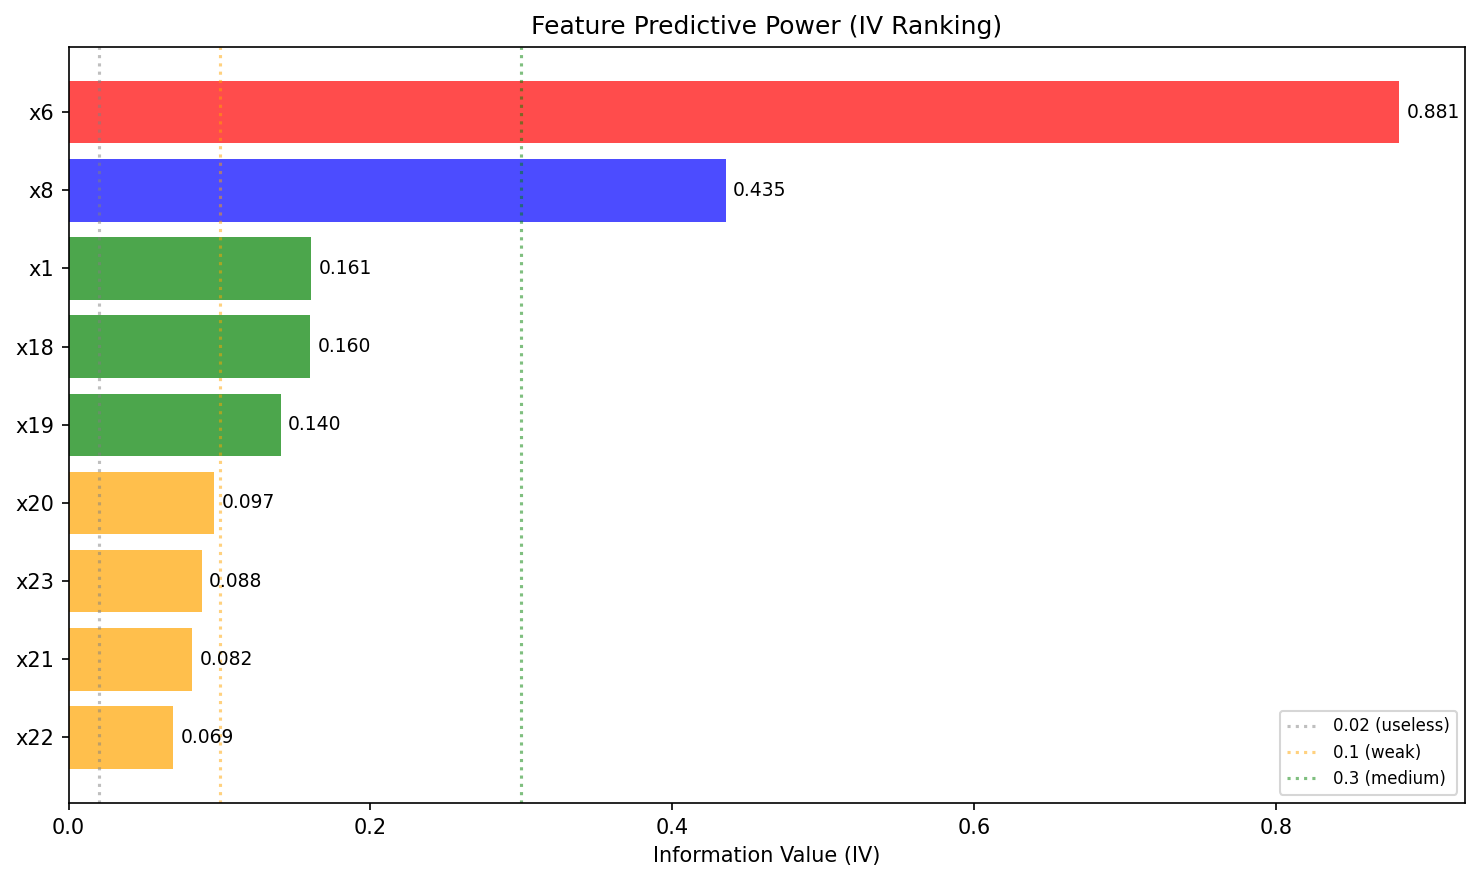
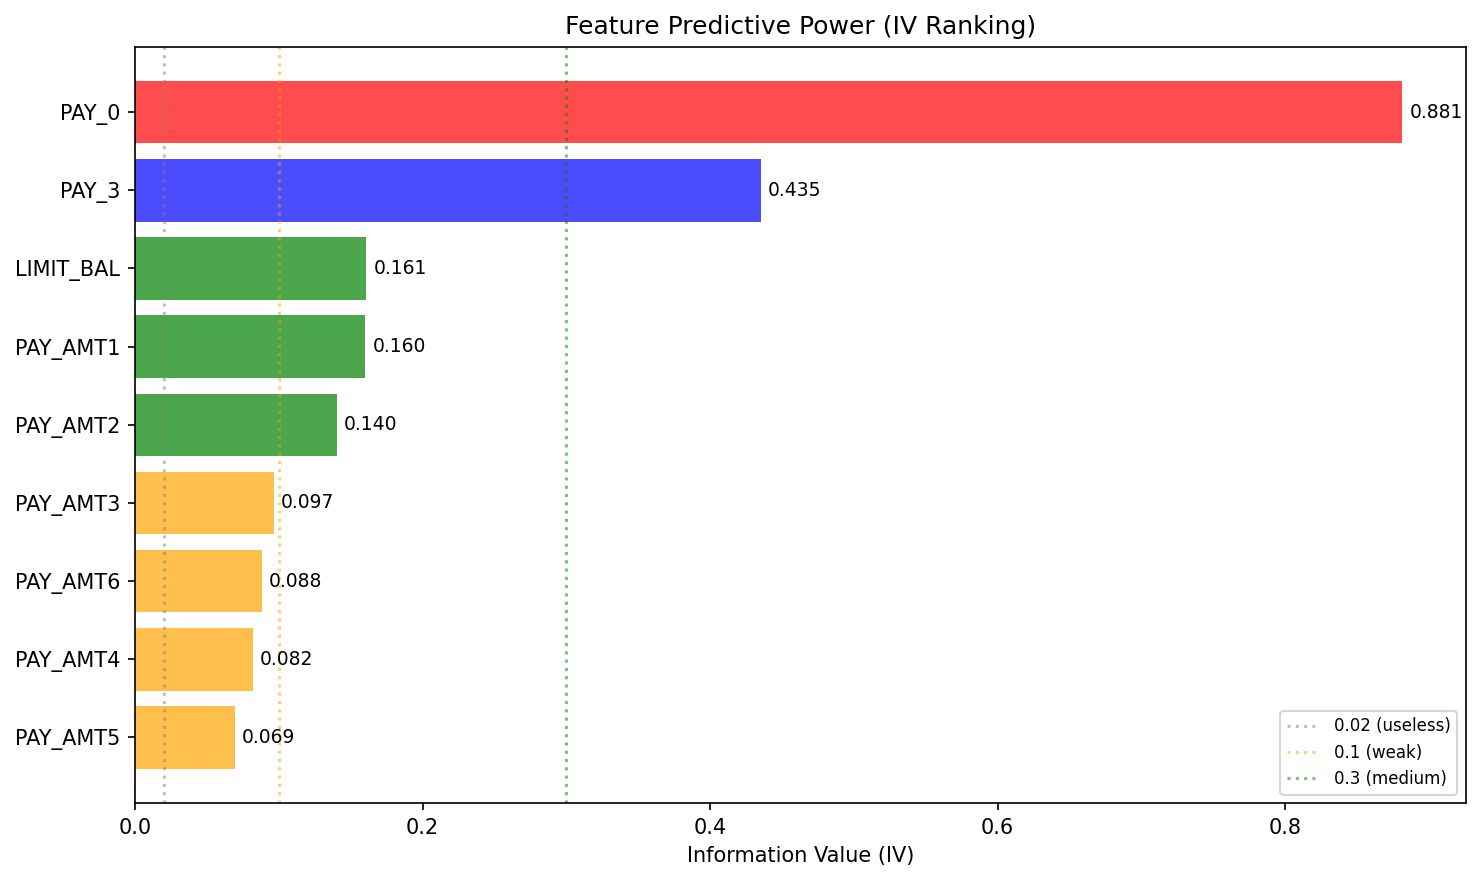
feat: rename Taiwan Credit columns from x1-x23 to actual UCI feature names

diff --git a/docs/examples/taiwan_credit_report.md b/docs/examples/taiwan_credit_report.md
@@ -50,11 +50,11 @@ The model uses 9 features with a total IV of **2.11**. The chart below ranks fea
 
 | Feature   |     IV | Monotonicity   | Recommendation   |
 |:----------|-------:|:---------------|:-----------------|
-| x6        | 0.8816 | decreasing     | Investigate      |
-| x8        | 0.4354 | non-monotonic  | Accept           |
-| x1        | 0.1609 | non-monotonic  | Accept           |
-| x18       | 0.1602 | non-monotonic  | Accept           |
-| x19       | 0.1405 | non-monotonic  | Accept           |
+| PAY_0     | 0.8816 | decreasing     | Investigate      |
+| PAY_3     | 0.4354 | non-monotonic  | Accept           |
+| LIMIT_BAL | 0.1609 | non-monotonic  | Accept           |
+| PAY_AMT1  | 0.1602 | non-monotonic  | Accept           |
+| PAY_AMT2  | 0.1405 | non-monotonic  | Accept           |
 
 ## Scorecard
 
@@ -64,44 +64,44 @@ The table below shows the full scorecard (38 rows across 9 features).
 
 | Variable   | Bin                  |         WOE |   Points |
 |:-----------|:---------------------|------------:|---------:|
-| x8         | (-1.0, 0.0]          |  0.304362   |    62.04 |
-| x8         | (-inf, -1.0]         |  0.35361    |    62.67 |
-| x8         | (0.0, inf]           | -1.39383    |    40.22 |
-| x1         | (-inf, 50000.0]      | -0.520152   |    51.85 |
-| x1         | (100000.0, 180000.0] |  0.159326   |    60.05 |
-| x1         | (180000.0, 270000.0] |  0.301749   |    61.77 |
-| x1         | (270000.0, inf]      |  0.589377   |    65.24 |
-| x1         | (50000.0, 100000.0]  | -0.165176   |    56.13 |
-| x18        | (-inf, 316.0]        | -0.638325   |    52.43 |
-| x18        | (1714.0, 3000.0]     |  0.0424854  |    58.5  |
-| x18        | (3000.0, 6159.8]     |  0.243802   |    60.3  |
-| x18        | (316.0, 1714.0]      |  0.0103584  |    58.22 |
-| x18        | (6159.8, inf]        |  0.560591   |    63.13 |
-| x19        | (-inf, 300.0]        | -0.547061   |    57.54 |
-| x19        | (1600.0, 3000.0]     |  0.04374    |    58.17 |
-| x19        | (300.0, 1600.0]      | -0.0925032  |    58.03 |
-| x19        | (3000.0, 6000.0]     |  0.185429   |    58.32 |
-| x19        | (6000.0, inf]        |  0.620864   |    58.79 |
-| x20        | (-inf, 1200.0]       | -0.300007   |    56.87 |
-| x20        | (1200.0, 2496.2]     | -0.025955   |    58.02 |
-| x20        | (2496.2, 5290.2]     |  0.252946   |    59.18 |
-| x20        | (5290.2, inf]        |  0.514082   |    60.27 |
-| x23        | (-inf, 1000.0]       | -0.25577    |    56.61 |
-| x23        | (1000.0, 2100.0]     | -0.0506321  |    57.83 |
-| x23        | (2100.0, 5000.0]     |  0.186058   |    59.22 |
-| x23        | (5000.0, inf]        |  0.562283   |    61.45 |
-| x21        | (-inf, 1000.0]       | -0.269853   |    56.77 |
-| x21        | (1000.0, 2100.0]     | -0.00846178 |    58.08 |
-| x21        | (2100.0, 5000.0]     |  0.234317   |    59.3  |
-| x21        | (5000.0, inf]        |  0.475088   |    60.51 |
-| x22        | (-inf, 1000.0]       | -0.243782   |    57.48 |
-| x22        | (1000.0, 2133.4]     | -0.0282874  |    58.05 |
-| x22        | (2133.4, 5000.0]     |  0.195425   |    58.65 |
-| x22        | (5000.0, inf]        |  0.454926   |    59.34 |
-| x6         | (-1.0, 0.0]          |  0.671224   |    73.58 |
-| x6         | (-inf, -1.0]         |  0.417056   |    67.73 |
-| x6         | (0.0, 1.0]           | -0.58762    |    44.59 |
-| x6         | (1.0, inf]           | -2.09263    |     9.93 |
+| PAY_3      | (-1.0, 0.0]          |  0.304362   |    62.04 |
+| PAY_3      | (-inf, -1.0]         |  0.35361    |    62.67 |
+| PAY_3      | (0.0, inf]           | -1.39383    |    40.22 |
+| LIMIT_BAL  | (-inf, 50000.0]      | -0.520152   |    51.85 |
+| LIMIT_BAL  | (100000.0, 180000.0] |  0.159326   |    60.05 |
+| LIMIT_BAL  | (180000.0, 270000.0] |  0.301749   |    61.77 |
+| LIMIT_BAL  | (270000.0, inf]      |  0.589377   |    65.24 |
+| LIMIT_BAL  | (50000.0, 100000.0]  | -0.165176   |    56.13 |
+| PAY_AMT1   | (-inf, 316.0]        | -0.638325   |    52.43 |
+| PAY_AMT1   | (1714.0, 3000.0]     |  0.0424854  |    58.5  |
+| PAY_AMT1   | (3000.0, 6159.8]     |  0.243802   |    60.3  |
+| PAY_AMT1   | (316.0, 1714.0]      |  0.0103584  |    58.22 |
+| PAY_AMT1   | (6159.8, inf]        |  0.560591   |    63.13 |
+| PAY_AMT2   | (-inf, 300.0]        | -0.547061   |    57.54 |
+| PAY_AMT2   | (1600.0, 3000.0]     |  0.04374    |    58.17 |
+| PAY_AMT2   | (300.0, 1600.0]      | -0.0925032  |    58.03 |
+| PAY_AMT2   | (3000.0, 6000.0]     |  0.185429   |    58.32 |
+| PAY_AMT2   | (6000.0, inf]        |  0.620864   |    58.79 |
+| PAY_AMT3   | (-inf, 1200.0]       | -0.300007   |    56.87 |
+| PAY_AMT3   | (1200.0, 2496.2]     | -0.025955   |    58.02 |
+| PAY_AMT3   | (2496.2, 5290.2]     |  0.252946   |    59.18 |
+| PAY_AMT3   | (5290.2, inf]        |  0.514082   |    60.27 |
+| PAY_AMT6   | (-inf, 1000.0]       | -0.25577    |    56.61 |
+| PAY_AMT6   | (1000.0, 2100.0]     | -0.0506321  |    57.83 |
+| PAY_AMT6   | (2100.0, 5000.0]     |  0.186058   |    59.22 |
+| PAY_AMT6   | (5000.0, inf]        |  0.562283   |    61.45 |
+| PAY_AMT4   | (-inf, 1000.0]       | -0.269853   |    56.77 |
+| PAY_AMT4   | (1000.0, 2100.0]     | -0.00846178 |    58.08 |
+| PAY_AMT4   | (2100.0, 5000.0]     |  0.234317   |    59.3  |
+| PAY_AMT4   | (5000.0, inf]        |  0.475088   |    60.51 |
+| PAY_AMT5   | (-inf, 1000.0]       | -0.243782   |    57.48 |
+| PAY_AMT5   | (1000.0, 2133.4]     | -0.0282874  |    58.05 |
+| PAY_AMT5   | (2133.4, 5000.0]     |  0.195425   |    58.65 |
+| PAY_AMT5   | (5000.0, inf]        |  0.454926   |    59.34 |
+| PAY_0      | (-1.0, 0.0]          |  0.671224   |    73.58 |
+| PAY_0      | (-inf, -1.0]         |  0.417056   |    67.73 |
+| PAY_0      | (0.0, 1.0]           | -0.58762    |    44.59 |
+| PAY_0      | (1.0, inf]           | -2.09263    |     9.93 |
 
 ### Scorecard Points Heatmap
 

diff --git a/docs/examples.md b/docs/examples.md
@@ -9,9 +9,18 @@ from sklearn.datasets import fetch_openml
 from sklearn.model_selection import train_test_split
 from ScoreCardModel.analytics.selection import rank_features
 
+COLUMN_MAP = {
+    'x1': 'LIMIT_BAL', 'x2': 'SEX', 'x3': 'EDUCATION', 'x4': 'MARRIAGE', 'x5': 'AGE',
+    'x6': 'PAY_0', 'x7': 'PAY_2', 'x8': 'PAY_3', 'x9': 'PAY_4', 'x10': 'PAY_5', 'x11': 'PAY_6',
+    'x12': 'BILL_AMT1', 'x13': 'BILL_AMT2', 'x14': 'BILL_AMT3', 'x15': 'BILL_AMT4',
+    'x16': 'BILL_AMT5', 'x17': 'BILL_AMT6',
+    'x18': 'PAY_AMT1', 'x19': 'PAY_AMT2', 'x20': 'PAY_AMT3', 'x21': 'PAY_AMT4',
+    'x22': 'PAY_AMT5', 'x23': 'PAY_AMT6',
+}
+
 data = fetch_openml('default-of-credit-card-clients', as_frame=True,
                     parser='pandas', version=1)
-X = data.data
+X = data.data.rename(columns=COLUMN_MAP)
 y = (data.target == '0').astype(int)
 X_train, X_test, y_train, y_test = train_test_split(
     X, y, test_size=0.3, random_state=42
@@ -24,18 +33,20 @@ print(ranking)
 Output (23 features ranked by IV):
 
 ```
-   Feature      IV    IV_Label   Monotonicity  ... Chi2_pvalue Recommendation
-0       x6  0.8816  suspicious     decreasing  ...     0.0000    Investigate
-1       x7  0.5704  suspicious     decreasing  ...     0.0000    Investigate
-2       x8  0.4354      strong  non-monotonic  ...     0.0000         Accept
-3       x9  0.3673      strong  non-monotonic  ...     0.0000         Accept
+      Feature      IV    IV_Label   Monotonicity  ... Chi2_pvalue Recommendation
+0       PAY_0  0.8816  suspicious     decreasing  ...     0.0000    Investigate
+1       PAY_2  0.5704  suspicious     decreasing  ...     0.0000    Investigate
+2       PAY_3  0.4354      strong  non-monotonic  ...     0.0000         Accept
+3       PAY_4  0.3673      strong  non-monotonic  ...     0.0000         Accept
 ...
-12     x22  0.0694        weak     increasing  ...     0.0000         Accept
-13      x3  0.0193     useless  non-monotonic  ...     0.0000         Reject
+12   PAY_AMT5  0.0694        weak     increasing  ...     0.0000         Accept
+13   EDUCATION  0.0193     useless  non-monotonic  ...     0.0000         Reject
 ...
-21      x4  0.0057     useless  non-monotonic  ...     0.5000         Reject
-22      x2  0.0000     useless     single_bin  ...     1.0000         Reject
+21   MARRIAGE  0.0057     useless  non-monotonic  ...     0.5000         Reject
+22        SEX  0.0000     useless     single_bin  ...     1.0000         Reject
 ```
+
+Feature names are mapped from the original UCI dataset (PAY_0–PAY_6 = repayment status history, LIMIT_BAL = credit limit, PAY_AMT1–PAY_AMT6 = payment amounts, etc.).
 
 The `Recommendation` column guides the decision:
 - **Reject** — IV < 0.02 (useless)
@@ -66,7 +77,7 @@ Output:
 ```
 Candidates: 13 features
 After correlation filter: 9 features
-['x8', 'x1', 'x18', 'x19', 'x20', 'x23', 'x21', 'x22', 'x6']
+['PAY_3', 'LIMIT_BAL', 'PAY_AMT1', 'PAY_AMT2', 'PAY_AMT3', 'PAY_AMT6', 'PAY_AMT4', 'PAY_AMT5', 'PAY_0']
 ```
 
 ## End-to-End Pipeline
@@ -111,17 +122,17 @@ print(card.head(10))
 Output:
 
 ```
-  Variable                   Bin       WOE  Points
-0       x8           (-1.0, 0.0]  0.304362   62.04
-1       x8          (-inf, -1.0]  0.353610   62.67
-2       x8            (0.0, inf] -1.393825   40.22
-3       x1       (-inf, 50000.0] -0.520152   51.85
-4       x1  (100000.0, 180000.0]  0.159326   60.05
-5       x1  (180000.0, 270000.0]  0.301749   61.77
-6       x1       (270000.0, inf]  0.589377   65.24
-7       x1   (50000.0, 100000.0] -0.165176   56.13
-8      x18         (-inf, 316.0] -0.638325   52.43
-9      x18      (1714.0, 3000.0]  0.042485   58.50
+ Variable                  Bin       WOE  Points
+    PAY_3          (-1.0, 0.0]  0.304362   62.04
+    PAY_3         (-inf, -1.0]  0.353610   62.67
+    PAY_3           (0.0, inf] -1.393825   40.22
+LIMIT_BAL      (-inf, 50000.0] -0.520152   51.85
+LIMIT_BAL (100000.0, 180000.0]  0.159326   60.05
+LIMIT_BAL (180000.0, 270000.0]  0.301749   61.77
+LIMIT_BAL      (270000.0, inf]  0.589377   65.24
+LIMIT_BAL  (50000.0, 100000.0] -0.165176   56.13
+ PAY_AMT1        (-inf, 316.0] -0.638325   52.43
+ PAY_AMT1     (1714.0, 3000.0]  0.042485   58.50
 ```
 
 ## Visualizations
@@ -211,19 +222,21 @@ KS: 0.481
 
 - **30,000 rows**, 23 numeric features
 - **22% default rate**
-- Features are anonymized (x1–x23) from the original UCI dataset
-- Demonstrates large-dataset performance with 13 selected features
+- Features renamed from x1–x23 to UCI names (PAY_0–PAY_6 = payment status, LIMIT_BAL = credit limit, PAY_AMT1–PAY_AMT6 = payment amounts, etc.)
+- Demonstrates large-dataset performance with 9 selected features (after correlation filter)
 
 ```python
 data = fetch_openml('default-of-credit-card-clients', as_frame=True, parser='pandas', version=1)
-X, y = data.data, (data.target == '0').astype(int)
+X = data.data.rename(columns=COLUMN_MAP)
+y = (data.target == '0').astype(int)
 
 ranking = rank_features(X_train, y_train, n_bins=5)
-final = accept + investigate  # 13 features: x1, x6–x11, x18–x23
+final = select_by_correlation(X_train[candidates], max_corr=0.7)
+# 9 features: PAY_0, PAY_3, LIMIT_BAL, PAY_AMT1–PAY_AMT6
 ```
 
 ```
-KS: 0.407
+KS: 0.398
 ```
 
 [View Report](examples/taiwan_credit_report.md)
